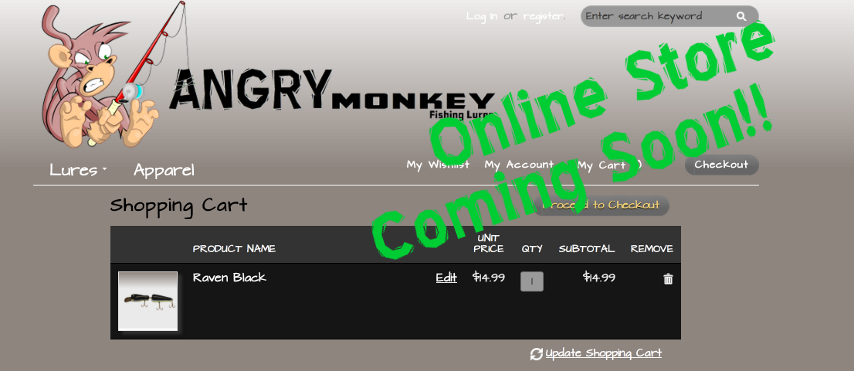
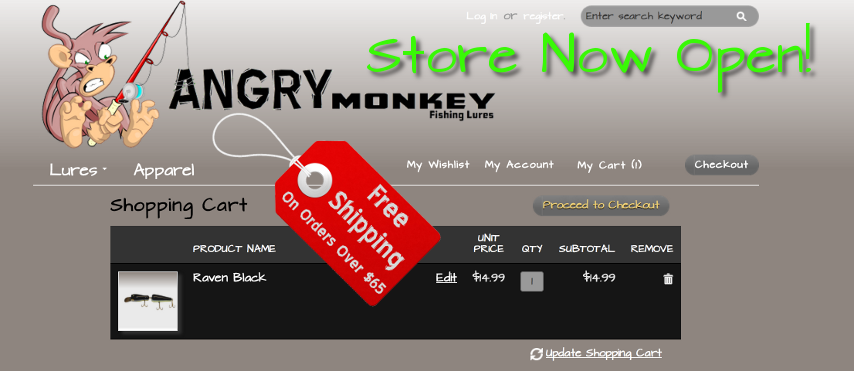
Updates links to newly opened store

Changed region(s): [[0.274, 0.0593, 0.9742, 0.8302], [0.2436, 0.2965, 0.3044, 0.4151], [0.3044, 0.3261, 0.3349, 0.3854]]

diff --git a/config/routes.rb b/config/routes.rb
@@ -13,7 +13,6 @@ Amms::Application.routes.draw do
   # This route can be invoked with purchase_url(:id => product.id)
   match 'about/' => 'static#tom'
   match 'events/' => 'static#events'
-  match 'store/' => 'static#store'
 
   resources :lure_types, only: [:index, :edit, :update, :new, :create, :destroy, :show]
   resources :lures,      only: [:index, :edit, :update, :new, :create, :destroy]
